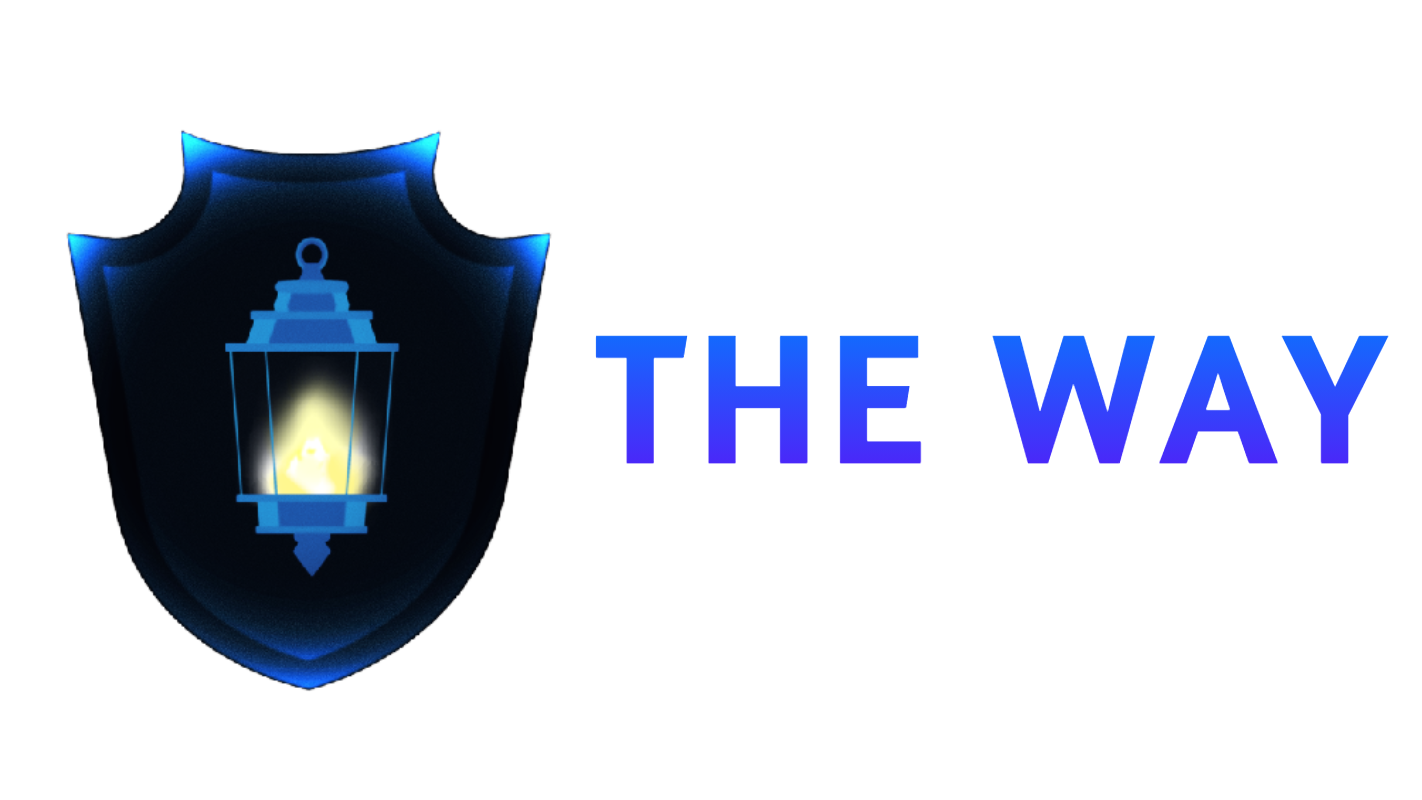
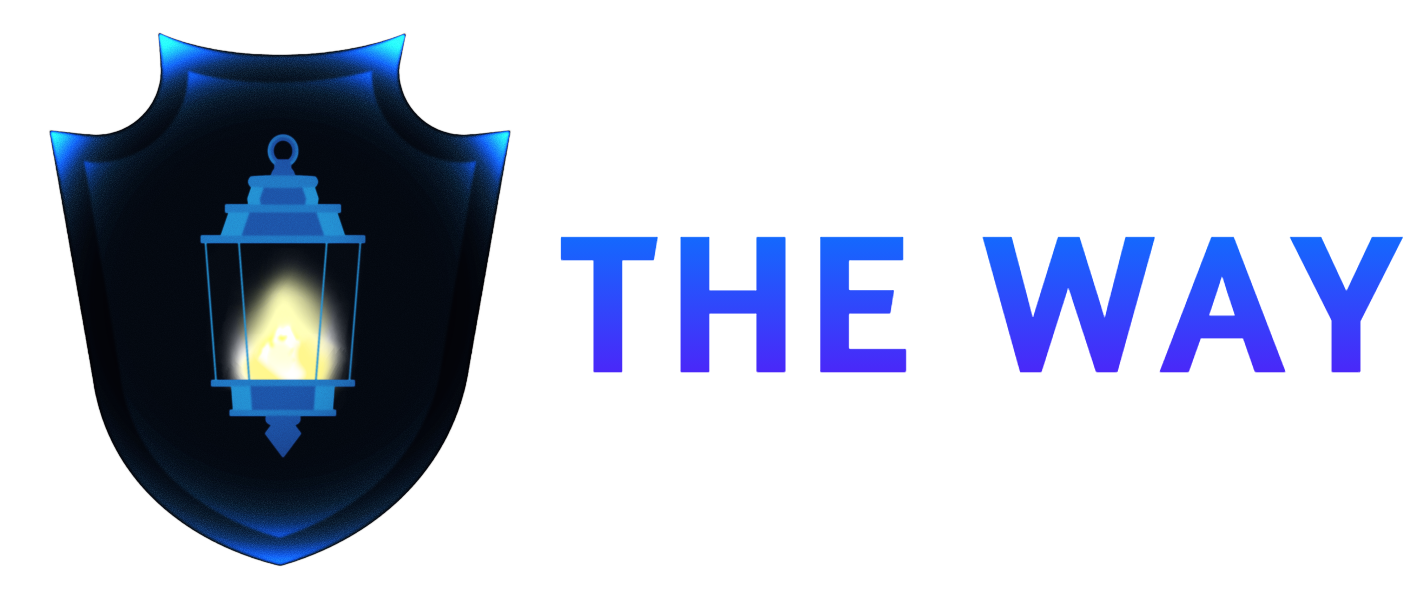
1.0.0 - Readme Fixes

Changed region(s): [[0.0309, 0.06, 0.6498, 0.96], [0.6807, 0.39, 0.9902, 0.63]]

diff --git a/readme.md b/readme.md
@@ -1,9 +1,9 @@
 <p align="center">
     <a href = "http://the-way.umberware.com/" target = "_blank">
-        <img src = "https://github.com/umberware/the-way/blob/master/src/main/resources/the-way-small-full.png" width="320px" alt="The Way Logo"/>
+        <img src = "https://github.com/umberware/the-way/blob/master/src/main/resources/the-way-small-full.png" width="380" alt="The Way Logo"/>
     </a>
 </p>
-<p align="center">A framework to enhance the development with NodeJs and Typescript, promoting agility, simplicity and intelligibility.</p>
+<p align="center">A framework to enhance the development with NodeJs and Typescript, promoting agility, simplicity and intelligibility. With TheWay, the sky is not the limit!</p>
 
 [![Site](https://img.shields.io/badge/Site-blue.svg?style=for-the-badge)](http://the-way.umberware.com/)
 [![Documentation](https://img.shields.io/badge/Documentation-blue.svg?style=for-the-badge)](documentation/index.md)
@@ -16,10 +16,6 @@
 [![Sponsor](https://img.shields.io/badge/Sponsor-black?logo=github-sponsors&style=for-the-badge)](https://opencollective.com/umberware#category-CONTRIBUTE)
 [![Discord](https://img.shields.io/badge/Discord-black?logo=discord&style=for-the-badge)](https://discord.gg/jJTReZwpgU)
 
-Using TheWay, you can easily and simply define REST operations, inject instances of a class, automatically configure and destroy instances, override classes to define a custom behavior, enable/disable features, and much more.
-
-With TheWay, the sky is not the limit!
-
 ## Summary
 
  - [Features](#features)
@@ -30,6 +26,7 @@ With TheWay, the sky is not the limit!
 
 ## Features
 
+Using TheWay, you can easily and simply define REST operations, inject instances of a class, automatically configure and destroy instances, override classes to define a custom behavior, enable/disable features, and much more.
 The proposal of TheWay is to enhance the life cycle of the development in Node.js with a lot of features. The main features are:
 
  - Class Injection & Singleton: When the [@Inject](documentation/the-way/core/decorator/core-decorators.md#inject) decorator is used, a dependency will be registered, and the [Core](documentation/the-way/core/core.md) will instantiate this dependency (as singleton) and inject at the injection point
